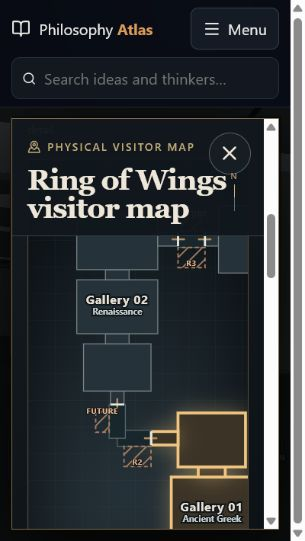
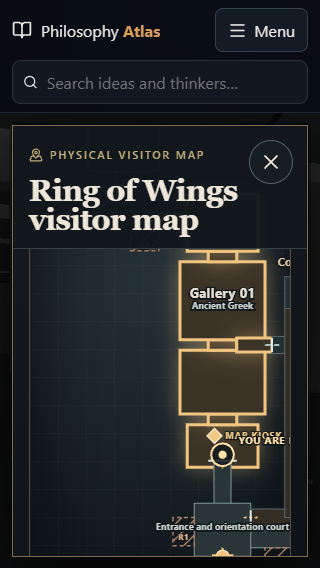
Complete Ring pilot release gate

diff --git a/src/components/MuseumGallery/MuseumPage.tsx b/src/components/MuseumGallery/MuseumPage.tsx
@@ -45,6 +45,7 @@ import {
   type MuseumHallId,
 } from '../../data/museumCatalog';
 import type {MuseumRoute, NavigableAppRoute, RouteHref, RouteNavigator} from '../../routing/routes';
+import {isRouteLoadError} from '../../routing/routeLoadErrors';
 import {MuseumInterpretationPanel} from './MuseumInterpretationPanel';
 import {MuseumModal} from './MuseumModal';
 import {MuseumTouchControls} from './MuseumTouchControls';
@@ -521,6 +522,11 @@ export function MuseumPage({route, href, push, replace}: {
   }, []);
 
   const retryHallContent = useCallback((hallId: MuseumHallId) => {
+    if (isRouteLoadError(hallLoadErrors[hallId])) {
+      saveCurrentHallSession();
+      window.location.reload();
+      return;
+    }
     failedHallContentIdsRef.current.delete(hallId);
     retryingHallIdsRef.current.add(hallId);
     setAnnouncement(`Retrying ${getMuseumHallCatalog(hallId)?.title ?? 'the gallery'}…`);
@@ -533,7 +539,7 @@ export function MuseumPage({route, href, push, replace}: {
     void ensureHallEntry(hallId).then(() => {
       if (activeHallIdRef.current === hallId) warmHallRemainder(hallId);
     }).catch(() => undefined);
-  }, [ensureHallEntry, warmHallRemainder]);
+  }, [ensureHallEntry, hallLoadErrors, saveCurrentHallSession, warmHallRemainder]);
 
   const handleHallContentError = useCallback((hallId: MuseumHallId, error: unknown) => {
     failedHallContentIdsRef.current.add(hallId);
@@ -717,13 +723,20 @@ export function MuseumPage({route, href, push, replace}: {
     const targetNode = getMuseumRuntimeNode(connection.targetNodeId);
     if (!targetNode) {
       setAnnouncement('The connected building node is not registered in this Museum build.');
-      return;
+      return false;
     }
     const sourcePose = {...poseRef.current};
     const arrival = resolveMuseumHallArrival(source, targetNode, connection.targetEntranceId, sourcePose);
     if (!arrival) {
       setAnnouncement('The connected doorway could not be resolved.');
-      return;
+      return false;
+    }
+    const targetRegistration = targetNode.publicHallId
+      ? getMuseumHallRegistration(targetNode.publicHallId)
+      : undefined;
+    if (targetNode.publicHallId && !targetRegistration) {
+      setAnnouncement('The connected gallery is not registered in this Museum build.');
+      return false;
     }
     const sourceNearby = nearbyRef.current;
     if (source.publicHallId) {
@@ -740,10 +753,8 @@ export function MuseumPage({route, href, push, replace}: {
     visitorMapNearbyRef.current = false;
     setVisitorMapNearby(false);
     setOverlay(null);
-    if (targetNode.publicHallId) {
+    if (targetNode.publicHallId && targetRegistration) {
       const targetHallId = targetNode.publicHallId;
-      const targetRegistration = getMuseumHallRegistration(targetHallId);
-      if (!targetRegistration) return;
       const previousHallId = activeHallIdRef.current;
       saveMuseumSession(targetRegistration.definition.layout, arrival);
       if (previousHallId !== targetHallId) setRecentHallId(previousHallId);
@@ -760,6 +771,7 @@ export function MuseumPage({route, href, push, replace}: {
       setAnnouncement(`Entered ${targetNode.mapLabel}.`);
     }
     setPoseRevision((value) => value + 1);
+    return true;
   }, [replace]);
 
   const handleNodeTransitionBlocked = useCallback((connection: MuseumDirectedConnection) => {

diff --git a/src/components/MuseumGallery/MuseumWorldScene.tsx b/src/components/MuseumGallery/MuseumWorldScene.tsx
@@ -124,6 +124,7 @@ function MuseumPlayerRig({
   const lastNearbyRef = useRef<MuseumInteractionTarget | undefined>(undefined);
   const displacementRef = useRef({x: 0, z: 0});
   const transitionLatchRef = useRef<string | undefined>(undefined);
+  const transitionTargetRef = useRef<string | undefined>(undefined);
   const blockedTransitionLatchRef = useRef<string | undefined>(undefined);
   const layout = definition.layout;
   const readyHallSet = useMemo(() => new Set<MuseumHallId>(readyHallIds), [readyHallIds]);
@@ -197,6 +198,13 @@ function MuseumPlayerRig({
 
   useFrame((_state, rawDelta) => {
     if (!active || blocked) return;
+    // The target node is committed after the crossing frame returns. Do not
+    // let the source rig reinterpret its resolved arrival as source-local data.
+    const transitionTargetId = transitionTargetRef.current;
+    if (transitionTargetId) {
+      if (transitionTargetId !== definition.id) return;
+      transitionTargetRef.current = undefined;
+    }
     const input = inputRef.current;
     const pose = poseRef.current;
     const previousPosition = {x: pose.x, z: pose.z};
@@ -255,7 +263,16 @@ function MuseumPlayerRig({
       if (targetReady) {
         if (transitionLatchRef.current !== connection.id) {
           transitionLatchRef.current = connection.id;
-          onNodeTransition(connection);
+          transitionTargetRef.current = connection.targetNodeId;
+          if (!onNodeTransition(connection)) {
+            transitionTargetRef.current = undefined;
+            transitionLatchRef.current = undefined;
+            pose.x = previousPosition.x;
+            pose.z = previousPosition.z;
+            applyPose();
+            publishNearby();
+            if (input.forward || input.strafe || input.lookX || input.lookY) invalidate();
+          }
         }
         return;
       }

diff --git a/index.html b/index.html
@@ -1,1 +1,1 @@
-<!doctype html><html lang="en"><head><meta charset="UTF-8"/><meta name="viewport" content="width=device-width,initial-scale=1.0"/><meta name="theme-color" content="#080b13"/><title>Philosophy Atlas</title></head><body><div id="root"></div><script type="module" src="/src/main.tsx"></script></body></html>
+<!doctype html><html lang="en"><head><meta charset="UTF-8"/><meta name="viewport" content="width=device-width,initial-scale=1.0"/><meta name="theme-color" content="#080b13"/><link rel="icon" href="data:,"/><title>Philosophy Atlas</title></head><body><div id="root"></div><script type="module" src="/src/main.tsx"></script></body></html>

diff --git a/src/components/MuseumGallery/museumRuntime.ts b/src/components/MuseumGallery/museumRuntime.ts
@@ -34,7 +34,7 @@ export type MuseumSceneRuntimeProps = {
   onNearbyInteractionChange: (target: MuseumInteractionTarget | undefined) => void;
   onSelectExhibit: (exhibit: MuseumExhibitRef) => void;
   onSelectVisitorMap: () => void;
-  onNodeTransition: (connection: MuseumDirectedConnection) => void;
+  onNodeTransition: (connection: MuseumDirectedConnection) => boolean;
   onNodeTransitionBlocked: (connection: MuseumDirectedConnection) => void;
   onApproachHall: (hallId: MuseumHallId | undefined) => void;
   onHallContentReady: (hallId: MuseumHallId) => void;

diff --git a/docs/museum-ring-pilot.md b/docs/museum-ring-pilot.md
@@ -100,7 +100,7 @@ The content cap is three hall subtrees: active/last hall, the one hall whose doo
 
 The manifest’s 96 MiB decoded-texture limit is enforced during admission. A deterministic RGBA8 estimate uses every scene WebP’s recorded dimensions, exact generated mip chains, renderer-shared plaque/sign/kiosk dimensions, and the larger of each source or mutually exclusive fallback allocation. Full active halls currently measure 40.43–43.11 MiB; entry-resident halls measure 22.80–32.92 MiB. Every active/approach pair fits. Across all 120 distinct active/approach/recent combinations, the largest admitted plan is 94.53 MiB and 32 combinations drop the optional recent hall. Only an active hall warms remainder media, preventing an approached hall from expanding beyond its entry-resident profile before crossing.
 
-A failed load withdraws readiness only for its target doorway and exposes the existing Retry UI. Because the pilot has a loop and central alternatives, the visitor can turn around and continue through another live route rather than being trapped at an endpoint.
+A failed load withdraws readiness only for its target doorway and exposes the existing Retry UI. Ordinary render failures remount that hall’s content epoch. A failed lazy hall-content module import instead saves the current safe hall session and reloads the document, because Chromium retains a failed URL in its module map and cannot reliably retry the identical import in place. Because the pilot has a loop and central alternatives, the visitor can turn around and continue through another live route rather than being trapped at an endpoint.
 
 ## Compatibility and rollback
 
@@ -126,6 +126,16 @@ The runtime SVG is generated by `npm run generate:museum-diagram`. The generator
 
 ## Verification and remaining work
 
-Release review requires the masterplan validator, production build, routing/Museum/assets/integrity/articles/accuracy audits, coverage and bundle reports, diff checks, and browser review at desktop and narrow viewports. Browser observations and generated screenshot paths are recorded in the final branch report rather than hard-coded here.
+Release review requires the masterplan validator, production build, routing/Museum/assets/integrity/articles/accuracy audits, coverage and bundle reports, diff checks, and browser review at desktop and narrow viewports. The curated release-candidate captures are:
+
+- [`entrance-and-kiosk.png`](./screenshots/ring-pilot-review/entrance-and-kiosk.png)
+- [`central-forum-court.png`](./screenshots/ring-pilot-review/central-forum-court.png)
+- [`outer-loop-corridor-doorway.png`](./screenshots/ring-pilot-review/outer-loop-corridor-doorway.png)
+- [`blocked-future-reservation.png`](./screenshots/ring-pilot-review/blocked-future-reservation.png)
+- [`desktop-visitor-map.png`](./screenshots/ring-pilot-review/desktop-visitor-map.png)
+- [`narrow-visitor-map-390x844.png`](./screenshots/ring-pilot-review/narrow-visitor-map-390x844.png)
+- [`narrow-visitor-map-320x568.png`](./screenshots/ring-pilot-review/narrow-visitor-map-320x568.png)
+
+These files are branch review evidence, not a production-deployment claim. Production status remains governed by `main` and the Pages workflow.
 
 The next construction phase should select one approved reserved bay, finish its intellectual content and local hall adapter, prove both physical arrivals and bounded preparation, then publish its connection and map status atomically. It must not reopen taxonomy or Ring alternatives without a concrete contradiction in the approved contract.

diff --git a/docs/museum-world-architecture.md b/docs/museum-world-architecture.md
@@ -85,7 +85,7 @@ The former active-plus-all-neighbors rule was safe only for a chain. The Ring pi
 - retain at most one recent hall; and
 - begin targeted preparation within 6 m of a live hall threshold.
 
-Circulation geometry is always cheap and resident; it does not consume a hall-content slot. A gallery is crossable only after its lazy entry module/media and its post-`Suspense` render signal are ready. A failed gallery preparation blocks only that doorway. Retry remounts that hall’s content epoch, while the loop or a central route remains available. Entry-visible media gates readiness. Remainder warming is restricted to the active hall, so an approached subtree cannot silently decode its full media set behind the smaller entry-resident allowance.
+Circulation geometry is always cheap and resident; it does not consume a hall-content slot. A gallery is crossable only after its lazy entry module/media and its post-`Suspense` render signal are ready. A failed gallery preparation blocks only that doorway. Retry remounts the hall content epoch for an ordinary render failure. For a failed lazy hall-content module import, Retry saves the current safe hall session and reloads the document so the browser receives a fresh module map; repeating the identical dynamic-import URL in place is not a reliable Chromium recovery. The loop or a central route remains available throughout. Entry-visible media gates readiness. Remainder warming is restricted to the active hall, so an approached subtree cannot silently decode its full media set behind the smaller entry-resident allowance.
 
 This is intentionally a small policy, not a speculative streaming platform. The manifest’s **96 MiB decoded-texture budget is now an admission constraint**, not a planning-only number. `museumTextureBudget.ts` derives a conservative allocation from the actual scene-asset dimensions and the canvas-texture dimensions shared with the renderers. It assumes RGBA8 uploads, includes exact mip chains for generated plaques/signs, includes the larger of a source image and its mutually exclusive failure fallback, and distinguishes a full active hall from the entry-visible subset of an approached or recent hall. `museumResidency.ts` always retains the active hall, admits the specific approached hall only when the measured pair fits, and retains a recent hall only when the complete plan remains within both the three-subtree cap and 96 MiB.
 
@@ -111,7 +111,7 @@ The kiosk and modal use the same projection. `M` remains the complete six-hall/4
 
 ## Persistent interaction contracts
 
-`MuseumWorldScene` still owns exactly one Canvas, camera, and player rig. `MuseumPage` owns route/history state, active physical location, overlays, readiness, hall-content residency, sessions, and Pointer Lock/drag-look/touch controls. Interpretation panels, guided visits, focus recovery, immersive/fullscreen state, direct exhibit routes, and the non-WebGL directory fallback retain their previous behavior.
+`MuseumWorldScene` still owns exactly one Canvas, camera, and player rig. A successful crossing holds the source rig behind a target-node commit guard, so a late source frame cannot reinterpret the resolved arrival in the wrong local coordinate space. `MuseumPage` owns route/history state, active physical location, overlays, readiness, hall-content residency, sessions, and Pointer Lock/drag-look/touch controls. Interpretation panels, guided visits, focus recovery, immersive/fullscreen state, direct exhibit routes, and the non-WebGL directory fallback retain their previous behavior.
 
 The public compatibility boundary is intentionally narrow:
 